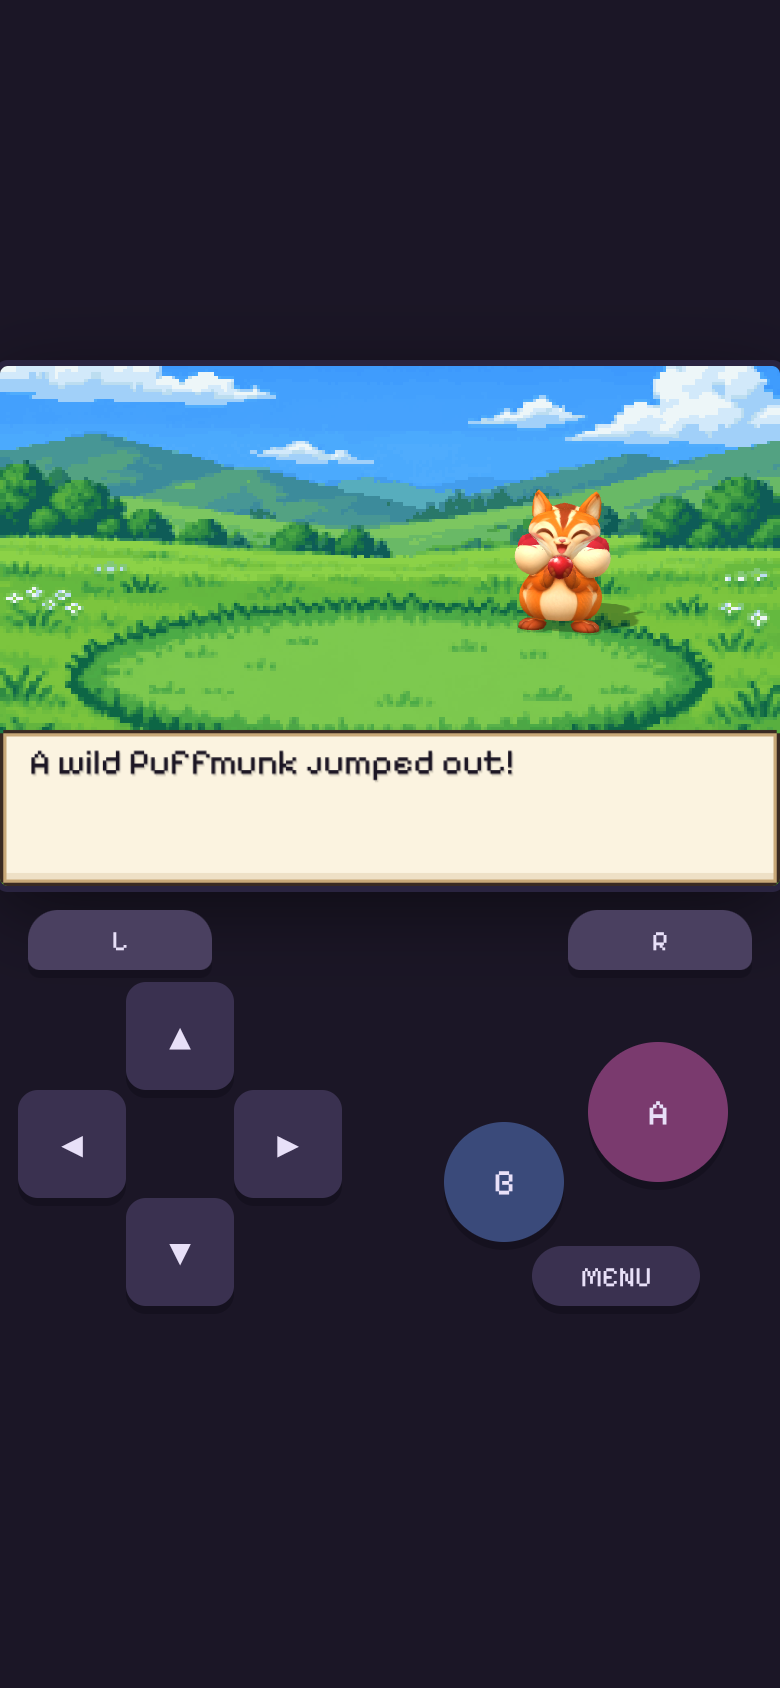
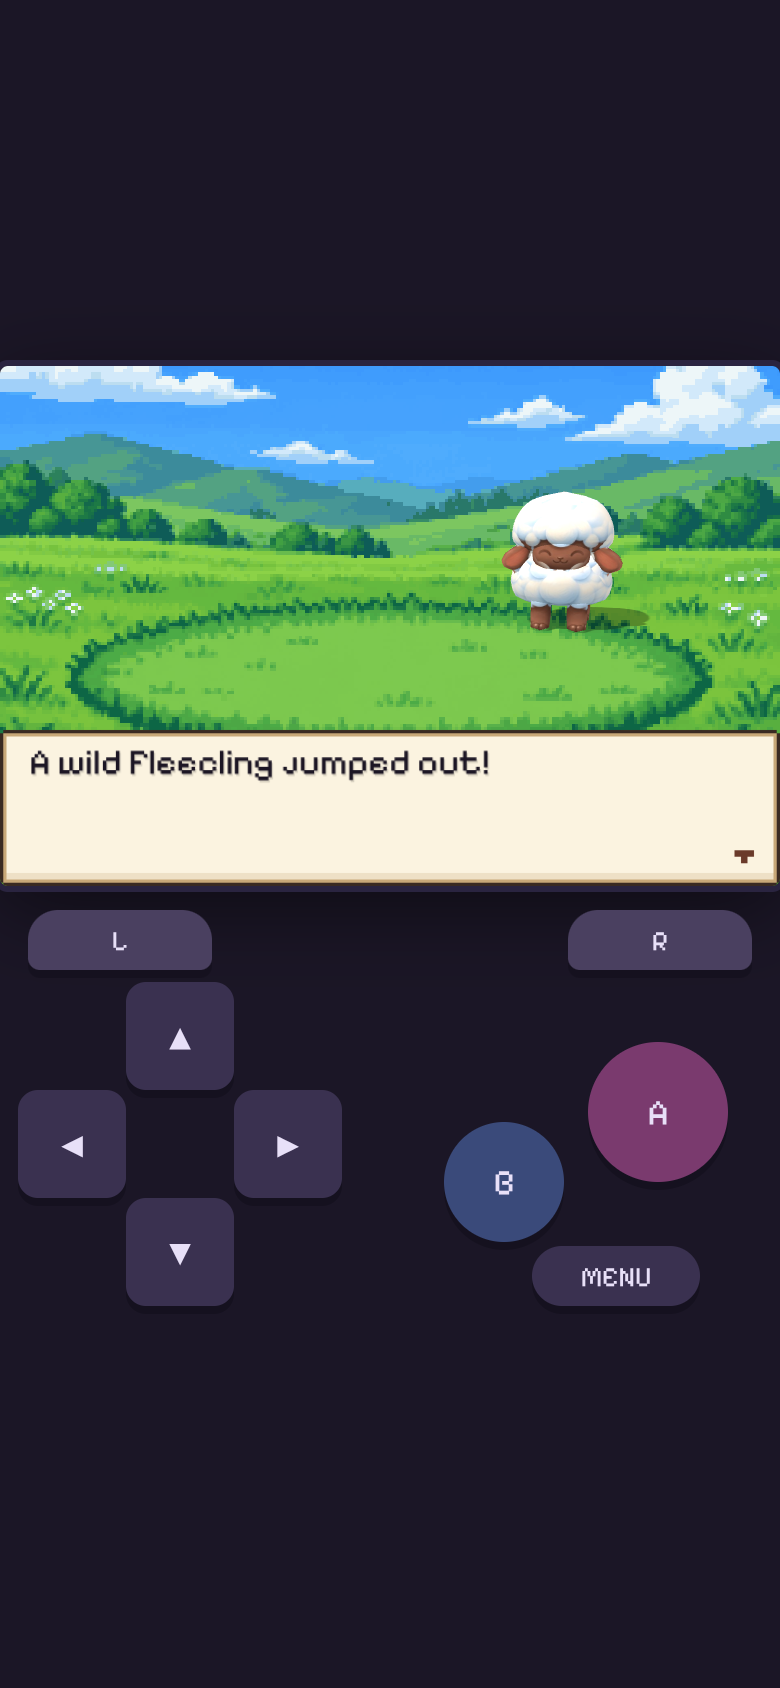
Chapter 1: full-cast check, new screenshots and cast pictures
Replayed the chapter with every painted model in: the opening, Juniper, the village shops,
the Meadow Path and catching, the Grassland, Farmer Bramble's trial, the log cleared and the end
screen. Fresh phone screenshots, plus pictures of all 12 people and all 14 creatures.

Claude-Session: https://claude.ai/code/session_01DgbUKYhgGAtBC4CAvaoXoT

Changed region(s): [[0.6462, 0.2773, 0.8308, 0.4005], [0.1846, 0.4313, 0.6462, 0.4621]]

diff --git a/creature-catch-model-sheets/chapter1/game/README.md b/creature-catch-model-sheets/chapter1/game/README.md
@@ -144,14 +144,16 @@ wider window.
 | `phone_11_bramble_asks` | Bramble's trial (he asks) |
 | `phone_12_bramble_trial` | Bramble's trial (the battle) |
 | `phone_13_log_cleared` | the log cleared |
+| `phone_14_end_of_chapter` | the end of Chapter 1 |
+| `phone_07_juniper_battle_move` | a move in Juniper's battle |
 | `wide_01_village` | the village |
 | `wide_02_interior_inn` | inside Rosa's Inn |
 | `wide_03_juniper_battle` | Juniper's battle |
 | `wide_04_wild_battle` | a wild battle |
 | `wide_05_meadow_path` | the Meadow Path |
 | `wide_06_grassland` | the Grassland |
-| `wide_07_our_models_close_up` | all our models up close |
-| `wide_08_carried_things_on_stand_in_models` | the carried things, tried on the player models |
+| `wide_07_all_people` | all 12 people in the game's light, with their carried things |
+| `wide_08_all_creatures` | all 14 Chapter 1 creatures in the game's light |
 
 ## For testing (dev links)
 
